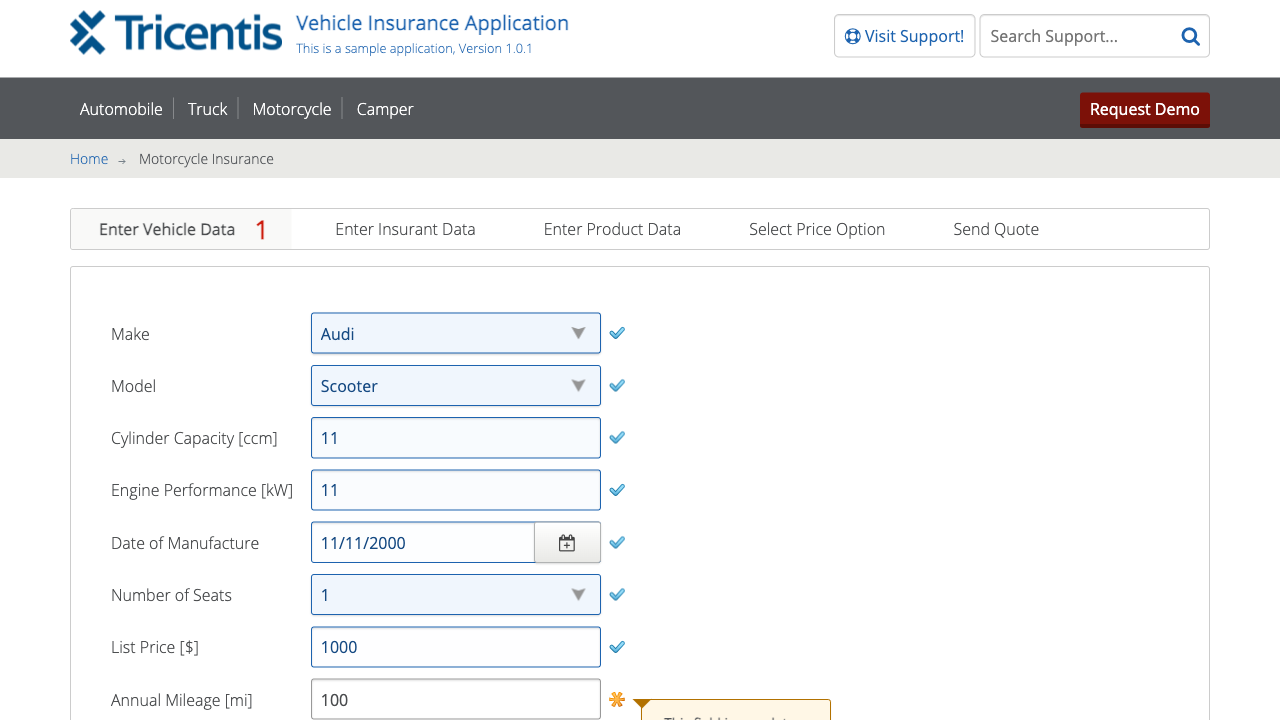
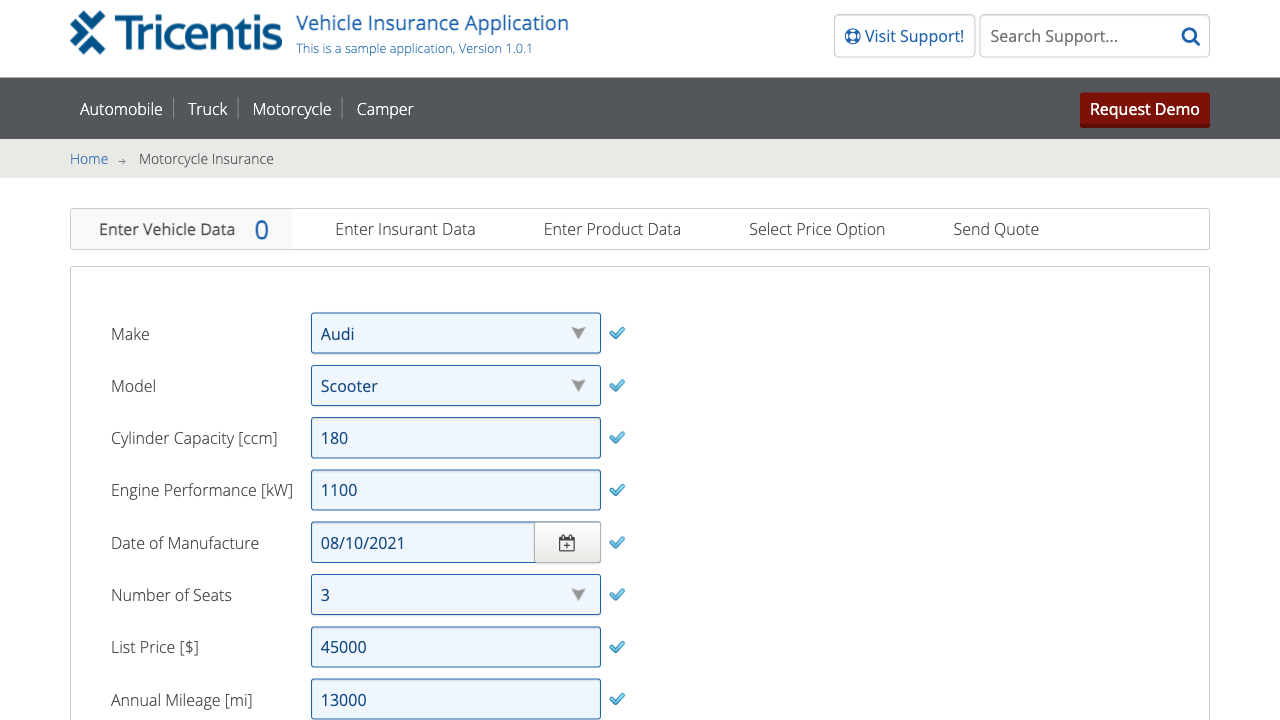
csv reader implemented on form

diff --git a/Resources/page-objects/motorcycleForms.ts b/Resources/page-objects/motorcycleForms.ts
@@ -1,0 +1,59 @@
+import { readMotorcycleCsv, recordsMotorcycle } from '../dataManager.spec';
+import * as vehicleDataFormLocators from '../locators/vehicleDataFormLocators';
+import { Page } from '@playwright/test';
+
+export const fillDataForms = {
+    Motorcycle: async (page: Page, category: string) => {
+        // Logic to fill data form for Motorcycle Forms
+        await vehicleDataFormLocators.MAKE_CAR(page).selectOption('Audi');
+        await vehicleDataFormLocators.MOTORCYCLE_MODEL(page).selectOption('Scooter');
+        await vehicleDataFormLocators.CYLINDER_CAPACITY(page).click();
+        await vehicleDataFormLocators.CYLINDER_CAPACITY(page).fill('11');
+        await vehicleDataFormLocators.ENGINE_PERFORMANCE(page).click();
+        await vehicleDataFormLocators.ENGINE_PERFORMANCE(page).fill('11');
+        await vehicleDataFormLocators.MANUFACTURE_DATE(page).click();
+        await vehicleDataFormLocators.MANUFACTURE_DATE(page).fill('11/11/2000');
+
+        await vehicleDataFormLocators.NUMBER_OF_SEATS_MOTORCYCLE(page).selectOption('1');
+        await vehicleDataFormLocators.LIST_PRICE(page).click();
+        await vehicleDataFormLocators.LIST_PRICE(page).fill('1000');
+        await vehicleDataFormLocators.ANNUAL_MILEAGE(page).click();
+        await vehicleDataFormLocators.ANNUAL_MILEAGE(page).fill('100');
+    },
+    category2: async (page) => {
+        // Logic to fill data form for category 2
+    },
+    // Add more categories as needed
+};
+
+export const fillDataFormsFromCSV = {
+    Motorcycle: async (page: Page, category: string) => {
+        readMotorcycleCsv();
+
+        //Grab data from Datamanager and fill form
+        for (const record of recordsMotorcycle) {
+            await vehicleDataFormLocators.MAKE_CAR(page).selectOption(record.MAKE_CAR);
+            await vehicleDataFormLocators.MOTORCYCLE_MODEL(page).selectOption(record.MOTORCYCLE_MODEL);
+            await vehicleDataFormLocators.CYLINDER_CAPACITY(page).click();
+            await vehicleDataFormLocators.CYLINDER_CAPACITY(page).fill(record.CYLINDER_CAPACITY);
+            await vehicleDataFormLocators.ENGINE_PERFORMANCE(page).click();
+            await vehicleDataFormLocators.ENGINE_PERFORMANCE(page).fill(record.ENGINE_PERFORMANCE);
+            await vehicleDataFormLocators.MANUFACTURE_DATE(page).click();
+            await vehicleDataFormLocators.MANUFACTURE_DATE(page).fill(record.MANUFACTURE_DATE);
+    
+            await vehicleDataFormLocators.NUMBER_OF_SEATS_MOTORCYCLE(page).selectOption(record.NUMBER_OF_SEATS_MOTORCYCLE);
+            await vehicleDataFormLocators.LIST_PRICE(page).click();
+            await vehicleDataFormLocators.LIST_PRICE(page).fill(record.LIST_PRICE);
+            await vehicleDataFormLocators.ANNUAL_MILEAGE(page).click();
+            await vehicleDataFormLocators.ANNUAL_MILEAGE(page).fill(record.ANNUAL_MILEAGE);
+        }
+    },
+    category2: async (page) => {
+        // Logic to fill data form for category 2
+    },
+    // Add more categories as needed
+};
+
+export async function nextPage(page: Page) {
+    await page.getByRole('button', { name: 'Next »' }).click();
+}

diff --git a/tests/validateForms.test.ts b/tests/validateForms.test.ts
@@ -1,10 +1,10 @@
 import { test, expect, Page } from '@playwright/test';
-import { selectCategory } from './page-objects/homepage.ts';
-import { automobileLocator, camperLocator, truckLocator, motorcycleLocator, selectedInsuranceLocator, tricentisLogoLocator } from './locators/pageLocators.ts';
+import { selectCategory } from '.././Resources/page-objects/homepage.ts'; 
+import { automobileLocator, camperLocator, truckLocator, motorcycleLocator, selectedInsuranceLocator, tricentisLogoLocator } from '.././Resources/locators/pageLocators.ts';
 import { validateHomepage } from '../tests/validateHomepage.spec.ts';
-import { fillDataForms, nextPage } from './page-objects/motorcycleForms.ts';
+import { fillDataForms, fillDataFormsFromCSV, nextPage } from '.././Resources/page-objects/motorcycleForms.ts';
 
-test.describe('Form - Enter Vehicle Data', () => {
+test.describe('Form - Enter Vehicle Data - Harcoded', () => {
     test.beforeEach(async ({ page }) => {
         await page.goto('/');
     });
@@ -27,8 +27,39 @@ test.describe('Form - Enter Vehicle Data', () => {
                 await selectCategory(page, category);
                 await expect(selectedInsuranceLocator(page)).toContainText(`${category} Insurance`);
 
-                //await fillMotorcycleDataForm(page, category);
                 await fillDataForms[`${category}`](page, category);
+                await page.screenshot({ path: `screenshots/${category}.png` });
+                await nextPage(page);
+            }
+        });
+    });
+});
+
+
+test.describe('Form - Enter Vehicle Data - From CSV', () => {
+    test.beforeEach(async ({ page }) => {
+        await page.goto('/');
+    });
+
+    // Assert correct redirect to each category form. After that, we go back to the homepage
+    const categories = ['Automobile', 'Truck', 'Motorcycle', 'Camper'];
+
+    categories.forEach(category => {
+        test(`Select ${category} Category and Enter Vehicle Data`, async ({ page }) => {
+            test.info().annotations.push({
+                type: 'summary',
+                description: `Selecting ${category} Category and going back to the Homepage`,
+            });
+
+            //Temporary - remove after implementation
+            if (`${category}` === 'Automobile' || `${category}` === 'Truck' || `${category}` === 'Camper') {
+               console.log(`Category ${category} flow Not implemented`);
+            } else {
+                // Code to execute if the condition is false
+                await selectCategory(page, category);
+                await expect(selectedInsuranceLocator(page)).toContainText(`${category} Insurance`);
+
+                await fillDataFormsFromCSV[`${category}`](page, category);
                 await page.screenshot({ path: `screenshots/${category}.png` });
                 await nextPage(page);
             }

diff --git a/tests/validateHomepage.spec.ts b/tests/validateHomepage.spec.ts
@@ -1,6 +1,6 @@
 import { test, expect, Page } from '@playwright/test';
-import { automobileLocator, camperLocator, truckLocator, motorcycleLocator, selectedInsuranceLocator, tricentisLogoLocator } from './locators/pageLocators.ts';
-import { selectCategory } from './page-objects/homepage.ts';
+import { automobileLocator, camperLocator, truckLocator, motorcycleLocator, selectedInsuranceLocator, tricentisLogoLocator } from '.././Resources/locators/pageLocators.ts';
+import { selectCategory } from '.././Resources/page-objects/homepage.ts';
 
 //***  */
 test.describe('Homepage - Selecting Categories', () => {

diff --git a/Resources/dataManager.spec.ts b/Resources/dataManager.spec.ts
@@ -1,0 +1,21 @@
+import fs from 'fs';
+import { parse } from 'csv-parse/sync';
+
+export const recordsMotorcycle  : any[] = [];
+
+const path = require('path');
+
+const records = parse(fs.readFileSync(path.join('/Users/miguelbarca/TestAutomation/playwright-vehicle-insurance-app/Data/CSVFiles/', 'Motorcycle.csv')), {
+    columns: true,
+    skip_empty_lines: true
+});
+
+export function readMotorcycleCsv() {
+    for (const record of records) {
+        //console.log(record);
+        recordsMotorcycle.push(record);
+    }
+};
+
+
+
